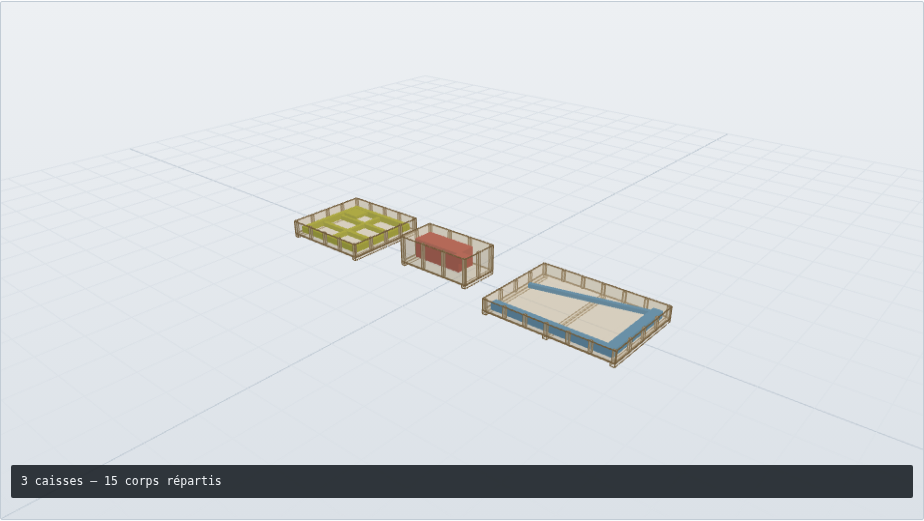
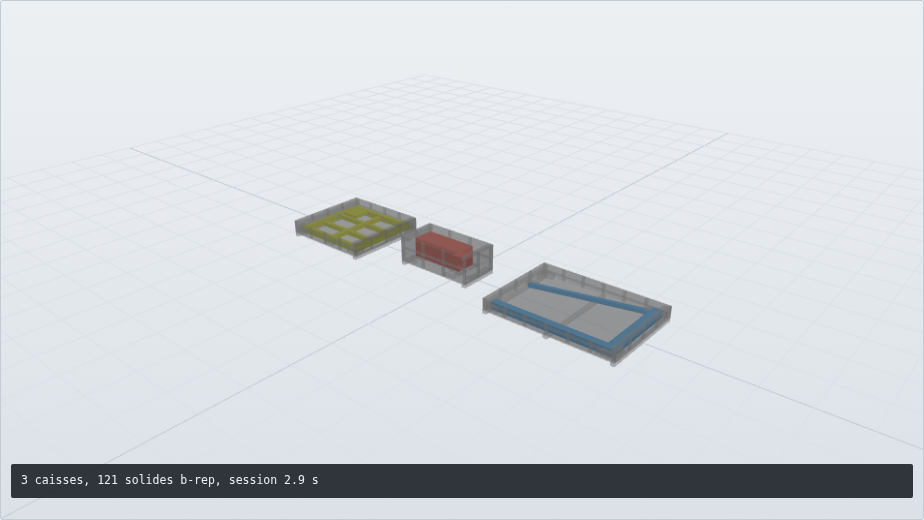
[+] Added per-crate chocking to the split

diff --git a/src/serveur.ts b/src/serveur.ts
@@ -15,7 +15,7 @@ import { blockingBoxes, isBlocking } from './engine/calage.js';
 import { sceneDecoupe, coucher, centrer, decalerX } from './moteur/scene-decoupe.js';
 import { rotate } from './geometrie/placement.js';
 import { alignedCloud } from './geometrie/emprise.js';
-import { machineProfile } from './geometrie/tranches.js';
+import { machineProfile, profilDepuisPoints } from './geometrie/tranches.js';
 import { explain } from './moteur/verdict.js';
 import type { ShippingMode } from './domain/types.js';
 
@@ -275,7 +275,7 @@ async function sceneDecoupeZoo(body: EtudeBody & { caisses?: number }) {
   const d = data.study.decoupe;
   if (!d) throw new Error('Aucun découpage à générer : une pose passe déjà.');
 
-  const boxes = sceneDecoupe(d).boxes;
+  const boxes = (await construireDecoupe(body)).boxes;
   const t0 = performance.now();
   const session = await EngineSession.open();
 
@@ -499,7 +499,7 @@ async function scene(body: EtudeBody & { pose?: string; brep?: string }) {
  * viewer n'a qu'à charger : aucune transformation n'est rejouée côté client,
  * donc aucune occasion de la rejouer de travers.
  */
-async function decoupe(body: EtudeBody & { caisses?: number }) {
+async function construireDecoupe(body: EtudeBody & { caisses?: number }) {
   const data = await etude(body);
   const d = data.study.decoupe;
   if (!d) throw new Error('Aucun découpage à montrer : une pose passe déjà.');
@@ -507,7 +507,7 @@ async function decoupe(body: EtudeBody & { caisses?: number }) {
   const scene = sceneDecoupe(d);
   const texte = await readFile(join('out', body.mesh!), 'utf8');
 
-  // La pose qui sert de base au découpage : la première autorisée.
+  // La pose sur laquelle le découpage a été calculé, et son placement.
   const base = data.study.poses.find((p) => p.pose !== 'reference' && !p.forbidden)!;
   const place = data.placements.find((p) => p.pose === base.pose)!;
   const axe = place.axis as 'x' | 'y' | 'z';
@@ -521,19 +521,20 @@ async function decoupe(body: EtudeBody & { caisses?: number }) {
   };
 
   const fichiers: string[] = [];
+  const boxes: typeof scene.boxes = [];
 
   for (const [i, c] of d.caisses.entries()) {
-    const noms = new Set<string>(c.corps);
-    const brut = extraireCorps(texte, noms);
+    const brut = extraireCorps(texte, new Set<string>(c.corps));
     const offset = scene.offsets[i]!;
+    const floorTop = c.crate.skid.heightMm + c.crate.floorThicknessMm;
 
-    // La caisse du bas garde la pose étudiée ; les autres se recouchent, comme
-    // le chiffrage l'a supposé. Le placement est **cuit** dans le fichier : le
-    // viewer charge et affiche, sans rejouer la moindre transformation.
-    let transformer: (p: [number, number, number]) => [number, number, number];
+    // Transformation **locale** : la caisse est centrée sur l'origine. Le
+    // décalage vers sa place dans la scène vient après, sinon le calage serait
+    // relevé dans un repère et posé dans un autre.
+    let locale: (p: [number, number, number]) => [number, number, number];
 
     if (i === 0) {
-      transformer = (p) => decalerX(offset)(poser(p));
+      locale = poser;
     } else {
       const poses: Array<[number, number, number]> = [];
       for (const ligne of brut.split('\n')) {
@@ -553,17 +554,39 @@ async function decoupe(body: EtudeBody & { caisses?: number }) {
       }
 
       const { permuter } = coucher(min, max);
-      const floorTop = c.crate.skid.heightMm + c.crate.floorThicknessMm;
-      const recentrer = centrer(poses.map(permuter), offset, floorTop);
-      transformer = (p) => recentrer(permuter(poser(p)));
+      const recentrer = centrer(poses.map(permuter), 0, floorTop);
+      locale = (p) => recentrer(permuter(poser(p)));
     }
 
+    // Les sommets de cette caisse, dans son repère : c'est sur eux que se
+    // relève le calage. Repartir du nuage entier donnerait le profil de la
+    // mauvaise géométrie, et des cales posées contre du vide.
+    const sommets: number[] = [];
+    for (const ligne of brut.split('\n')) {
+      if (ligne.startsWith('v ')) {
+        const [x, y, z] = ligne.slice(2).trim().split(/\s+/).map(Number) as [number, number, number];
+        sommets.push(...locale([x, y, z]));
+      }
+    }
+
+    const hauts = sommets.filter((_, k) => k % 3 === 2);
+    const profil = profilDepuisPoints(Float64Array.from(sommets), floorTop, Math.max(floorTop, ...hauts));
+
+    boxes.push(
+      ...crateBoxes(c.crate).map((b) => ({ ...b, name: `caisse${i + 1}_${b.name}`, x: b.x + offset })),
+      ...blockingBoxes(c.crate, profil).map((b) => ({ ...b, name: `caisse${i + 1}_${b.name}`, x: b.x + offset }))
+    );
+
     const nom = `decoupe-${i + 1}.obj`;
-    await writeFile(join('out', nom), transformerObj(brut, transformer));
+    await writeFile(join('out', nom), transformerObj(brut, (p) => decalerX(offset)(locale(p))));
     fichiers.push(nom);
   }
 
-  return { boxes: scene.boxes, offsets: scene.offsets, fichiers, decoupe: d };
+  return { boxes, offsets: scene.offsets, fichiers, decoupe: d };
+}
+
+async function decoupe(body: EtudeBody & { caisses?: number }) {
+  return construireDecoupe(body);
 }
 
 /* ------------------------------------------------------------- conversion */

diff --git a/src/geometrie/tranches.ts b/src/geometrie/tranches.ts
@@ -197,9 +197,22 @@ export function machineProfile(
   scale: number,
   floorTopMm: number
 ): MachineProfile {
-  const points = placedPoints(cloud, up, placement, scale);
-  const topMm = floorTopMm + placement.size[2];
+  return profilDepuisPoints(placedPoints(cloud, up, placement, scale), floorTopMm, floorTopMm + placement.size[2]);
+}
 
+/**
+ * Même relevé, à partir de sommets **déjà placés**.
+ *
+ * Le découpage en a besoin : chaque caisse contient un sous-ensemble de pièces,
+ * recouchées et recentrées dans leur propre caisse. Repartir du nuage d'origine
+ * et de la pose de la machine entière donnerait le profil de la mauvaise
+ * géométrie — et un calage posé contre du vide.
+ */
+export function profilDepuisPoints(
+  points: Float64Array,
+  floorTopMm: number,
+  topMm: number
+): MachineProfile {
   return {
     basParX: colonnes(points, 0, floorTopMm, floorTopMm + BANDE_BASSE_MM),
     basParY: colonnes(points, 1, floorTopMm, floorTopMm + BANDE_BASSE_MM),
